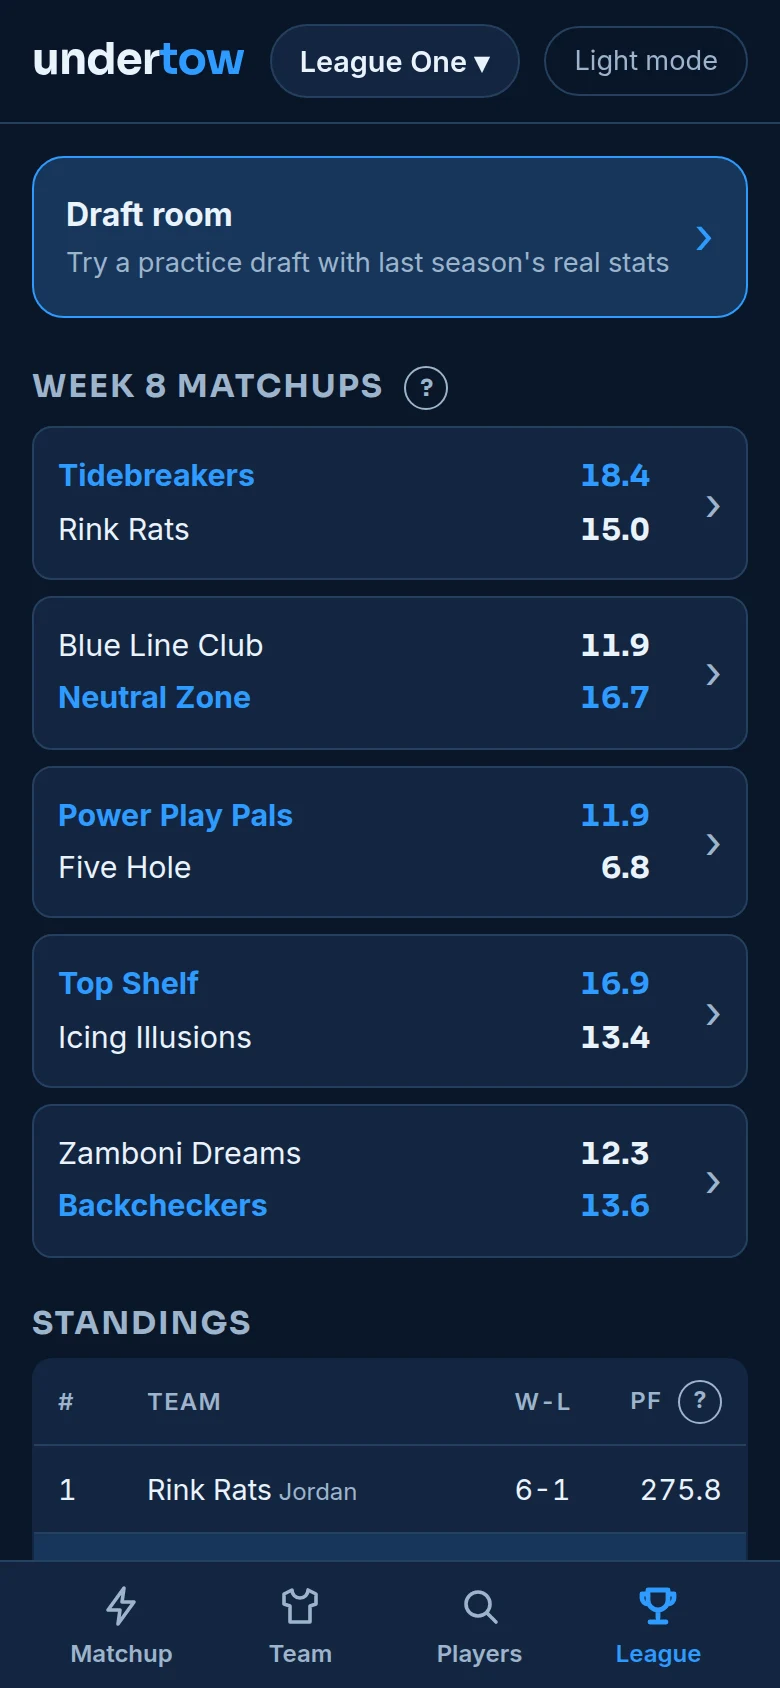
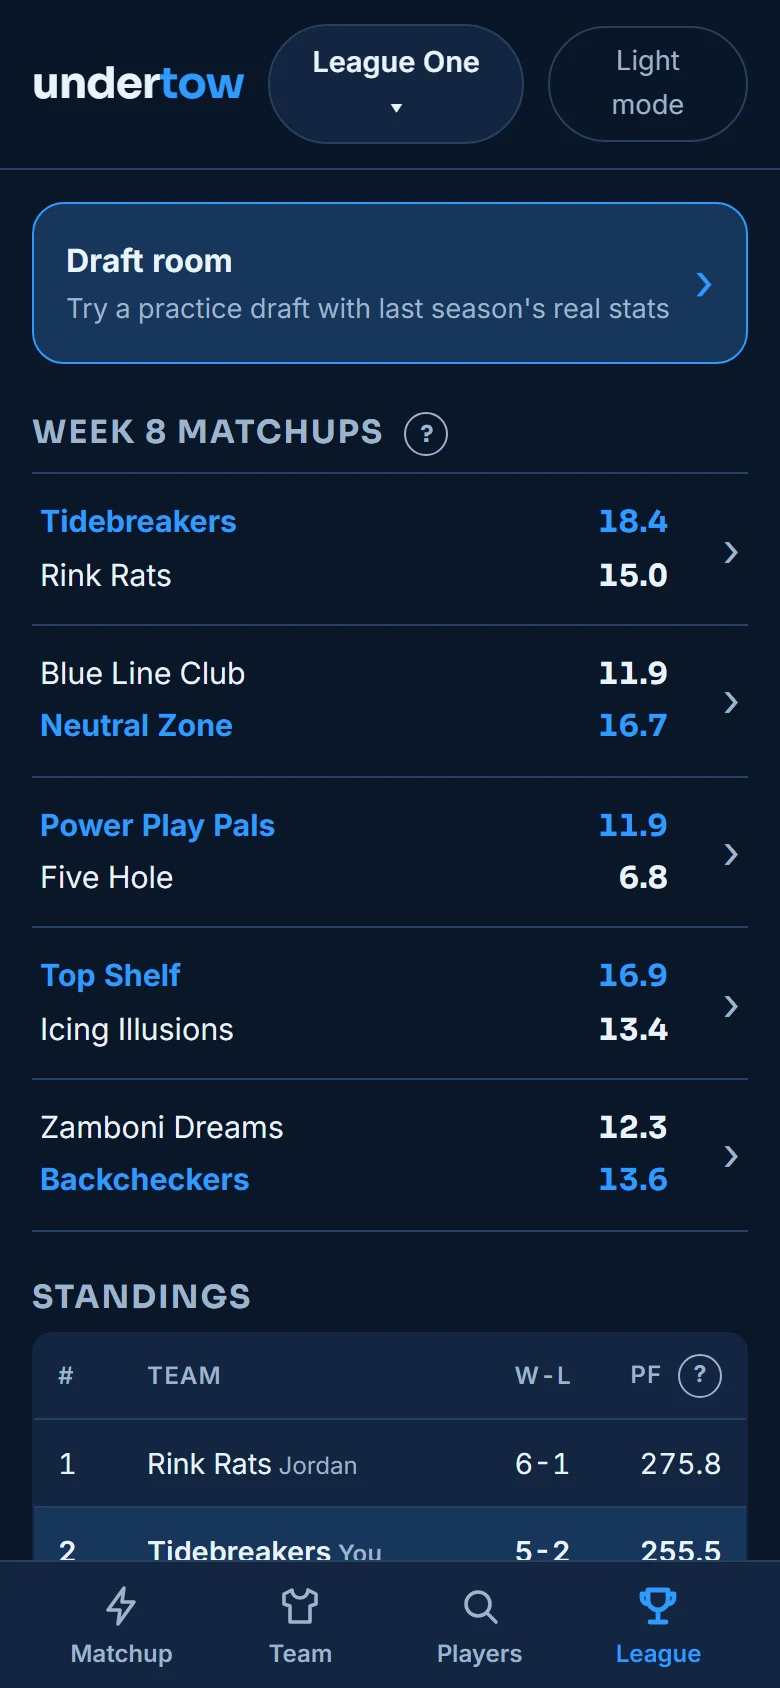
Landing page: one-at-a-time screenshot carousel, and refresh the demo shots
The app screenshot row showed several phone screens at once (a sliver of
the next one always peeking in), which read more like a scrollable strip
than a slideshow. It's now a true carousel: one screen fills the frame,
with scroll-snap swipe plus prev/next arrows and dot indicators that track
the active slide (shots.js).

Also regenerated the matchup, team, players and league screenshots, which
were stale after the flat-list redesign replaced their boxed player/row
cards with divider lists.

Changed region(s): [[0.0308, 0.0308, 0.9846, 0.9242], [0.0308, 0.0308, 0.3077, 0.0616]]

diff --git a/src/undertow/web/static/site.css b/src/undertow/web/static/site.css
@@ -66,17 +66,26 @@ section.block { padding: var(--space-6) 0; }
 .steps li::before { content: counter(step); display: inline-grid; place-items: center; width: 32px; height: 32px; border-radius: 50%; background: var(--primary); color: var(--on-primary); font-family: var(--font-heading); font-weight: 700; margin-bottom: var(--space-3); }
 .steps p { color: var(--text-muted); margin: 0; }
 
-/* App screenshots: swipeable row of phone screens */
-.shots { list-style: none; margin: var(--space-5) 0 0; padding: var(--space-2) var(--gutter) var(--space-4); display: flex; gap: var(--space-4); overflow-x: auto; scroll-snap-type: x mandatory; scroll-padding: 0 var(--gutter); -webkit-overflow-scrolling: touch; }
-.shots li { flex: none; width: min(74vw, 260px); scroll-snap-align: start; }
+/* App screenshots: a one-at-a-time slideshow. Swipe, or use the arrows/dots below. */
+.shots-frame { max-width: 300px; margin: var(--space-5) auto 0; }
+.shots { list-style: none; margin: 0; padding: var(--space-2) 0 var(--space-4); display: flex; overflow-x: auto; scroll-snap-type: x mandatory; scroll-behavior: smooth; -webkit-overflow-scrolling: touch; scrollbar-width: none; }
+.shots::-webkit-scrollbar { display: none; }
+.shots li { flex: none; width: 100%; scroll-snap-align: start; }
 .shots figure { margin: 0; }
 .shots img { display: block; width: 100%; height: auto; border-radius: 26px; border: 1px solid var(--border); box-shadow: 0 18px 40px rgba(0, 0, 0, 0.35); background: var(--surface); }
-.shots figcaption { margin-top: var(--space-3); display: grid; gap: 2px; font-size: 0.88rem; }
+.shots figcaption { margin-top: var(--space-3); display: grid; gap: 2px; font-size: 0.88rem; text-align: center; }
 .shots figcaption strong { font-family: var(--font-heading); font-size: 1rem; }
 .shots figcaption span { color: var(--text-muted); }
-@media (min-width: 1100px) {
-  .shots { padding-left: calc((100vw - 1040px) / 2 + var(--gutter)); scroll-padding-left: calc((100vw - 1040px) / 2 + var(--gutter)); }
-  .shots li { width: 260px; }
+.shots-controls { display: flex; align-items: center; justify-content: center; gap: var(--space-4); margin-top: var(--space-2); }
+.shots-nav { flex: none; width: 40px; height: 40px; border-radius: 50%; border: 1px solid var(--border); background: var(--surface); color: var(--text); font-size: 1.3rem; line-height: 1; cursor: pointer; }
+.shots-nav:hover { color: var(--primary); border-color: var(--primary); }
+.shots-nav:disabled { opacity: 0.35; cursor: default; }
+.shots-nav:disabled:hover { color: var(--text); border-color: var(--border); }
+.shots-dots { display: flex; gap: 8px; }
+.dot { width: 8px; height: 8px; padding: 0; border: 0; border-radius: 999px; background: var(--border); cursor: pointer; }
+.dot[aria-current="true"] { background: var(--primary); width: 20px; }
+@media (min-width: 640px) {
+  .shots-frame { max-width: 340px; }
 }
 
 details { background: var(--surface); border: 1px solid var(--border); border-radius: var(--radius-sm); padding: var(--space-3) var(--space-4); margin-bottom: var(--space-3); }

diff --git a/src/undertow/web/static/shots.js b/src/undertow/web/static/shots.js
@@ -1,0 +1,44 @@
+/* App screenshot carousel: one slide visible at a time, via swipe, arrows or dots. */
+(function () {
+  var list = document.getElementById("shots");
+  if (!list) return;
+  var slides = Array.prototype.slice.call(list.children);
+  var dotsWrap = document.getElementById("shots-dots");
+  var prevBtn = document.querySelector(".shots-nav.prev");
+  var nextBtn = document.querySelector(".shots-nav.next");
+  var active = 0;
+
+  function go(i) {
+    i = Math.max(0, Math.min(slides.length - 1, i));
+    slides[i].scrollIntoView({ behavior: "smooth", inline: "start", block: "nearest" });
+  }
+
+  var dots = slides.map(function (slide, i) {
+    var b = document.createElement("button");
+    b.type = "button";
+    b.className = "dot";
+    b.setAttribute("role", "tab");
+    b.setAttribute("aria-label", "Screenshot " + (i + 1) + " of " + slides.length);
+    b.addEventListener("click", function () { go(i); });
+    dotsWrap.appendChild(b);
+    return b;
+  });
+
+  function setActive(i) {
+    active = i;
+    dots.forEach(function (d, j) { d.setAttribute("aria-current", j === i ? "true" : "false"); });
+    prevBtn.disabled = i === 0;
+    nextBtn.disabled = i === slides.length - 1;
+  }
+
+  var io = new IntersectionObserver(function (entries) {
+    entries.forEach(function (e) {
+      if (e.isIntersecting) setActive(slides.indexOf(e.target));
+    });
+  }, { root: list, threshold: 0.6 });
+  slides.forEach(function (s) { io.observe(s); });
+  setActive(0);
+
+  prevBtn.addEventListener("click", function () { go(active - 1); });
+  nextBtn.addEventListener("click", function () { go(active + 1); });
+})();

diff --git a/src/undertow/web/templates/index.html b/src/undertow/web/templates/index.html
@@ -69,7 +69,8 @@
     <h2>A peek at the app</h2>
     <p class="muted">Clear, calm and quick. It only says what you need, when you need it. These are sample screens: the players and stats are real 2025-26 PWHL numbers, and the teams are made up.</p>
   </div>
-  <ul class="shots" aria-label="App screenshots">
+  <div class="shots-frame">
+    <ul class="shots" id="shots" aria-label="App screenshots">
       <li>
         <figure>
           <img src="/static/demo/draft-recommendation.webp?v={{ v }}" alt="Draft room on a phone: it is your turn, with a recommended player, a plain-English reason, and a Draft button." width="390" height="844" loading="lazy">
@@ -106,8 +107,15 @@
           <figcaption><strong>League</strong><span>Standings and every matchup in your league, one tap away.</span></figcaption>
         </figure>
       </li>
-  </ul>
+    </ul>
+  </div>
+  <div class="shots-controls">
+    <button class="shots-nav prev" type="button" aria-label="Previous screenshot">‹</button>
+    <div class="shots-dots" id="shots-dots" role="tablist" aria-label="Choose a screenshot"></div>
+    <button class="shots-nav next" type="button" aria-label="Next screenshot">›</button>
+  </div>
 </section>
+<script src="/static/shots.js?v={{ v }}" defer></script>
 
 <section class="block">
   <div class="wrap page">
